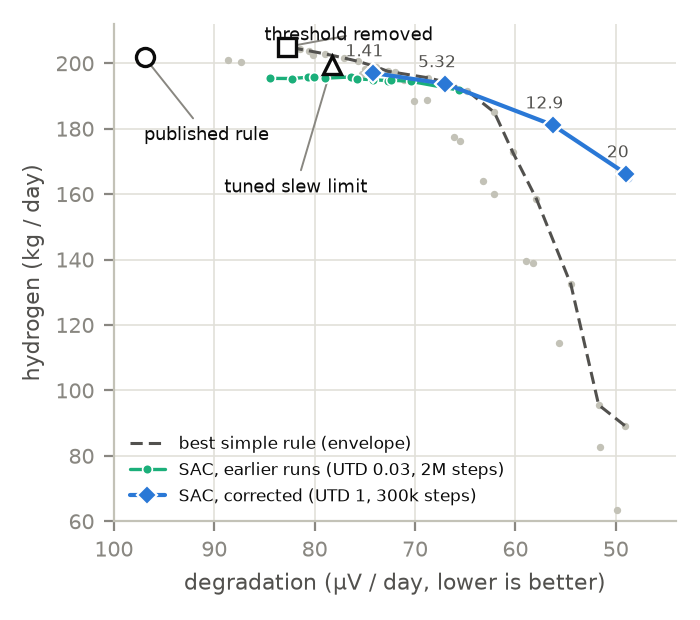
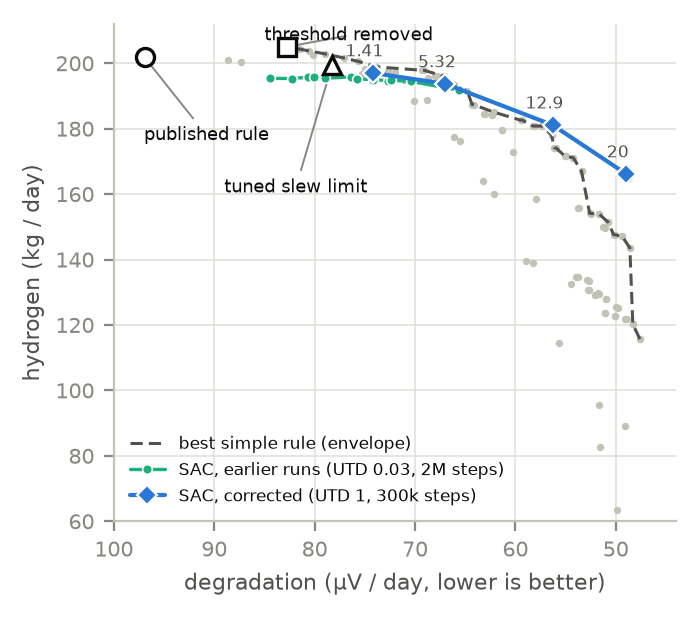
Add the hysteresis-rule grid to the rule envelope and correct the low-degradation claim (advantage falls to 2.7% and 14%)

diff --git a/paper/main_track2.tex b/paper/main_track2.tex
@@ -106,9 +106,11 @@ rule on its training reward, within its first checkpoint; at the high weights th
 did not learn the weight's effect at all (\NumChkTwentyLowDeg\,\si{\micro\volt}/day at $w_2=20$ against
 \NumChkTwentyHighDeg{} at the full ratio, on training days). Configurations should therefore be compared by time to a
 stated quality at the weight of interest, not by steps per second. On held-out days the learned controller matches the best
-simple rule at moderate degradation reductions and, at low degradation, yields \NumAdvTwelvePct--\NumAdvTwentyPct\,\%
-more hydrogen than the best simple rule at the same degradation, with a projected life that depends on coefficients
-the model cannot pin down. No physical stack was operated: the simulator is a pre-screening tool, and
+simple rule at moderate degradation reductions. At low degradation the rule baseline matters: against slew-limit and
+power-cap rules the learned policy yields up to \NumAdvTwentyPctOldRules\,\% more hydrogen at the same degradation, but a
+grid of 72 hysteresis rules (start/stop confirmation, power cap, slew limit) closes most of that gap, leaving
+\NumAdvTwelvePct\,\% at $w_2=12.9$ and \NumAdvTwentyPct\,\% at $w_2=20$, with a projected life that depends on
+coefficients the model cannot pin down. No physical stack was operated: the simulator is a pre-screening tool, and
 conclusions concern relative controller behaviour and computational performance, not absolute stack lifetime.
 \end{abstract}
 
@@ -466,24 +468,34 @@ This is a descriptive probe of a few checkpoints, not a statistic.
 \centering
 \includegraphics[width=\columnwidth]{fig_frontier.pdf}
 \caption{Hydrogen against degradation on the 72 held-out days (lower degradation to the right).
-Grey dots: every point of the slew-limit and power-cap grids; dashed line: their non-dominated envelope.
+Grey dots: every point of the slew-limit, power-cap and hysteresis-rule grids; dashed line: their non-dominated envelope.
 Blue: corrected SAC (mean of two seeds, faint dots are seeds), labelled with the degradation weight
 $w_2$. Green: the earlier SAC runs. Open markers: the three named rules.}
 \label{fig:frontier}
 \end{figure}
 Figure~\ref{fig:frontier} places the corrected policies against the rule grids. The envelope is the
-non-dominated set of all grid points and the three named rules. At the two lowest weights the learned
+non-dominated set of all grid points and the three named rules. The grids are the one-dimensional slew-limit and
+power-cap families and a 72-point hysteresis family: a start is confirmed only after the resource has stayed above
+a threshold for 5 or 20 minutes, a stop only after it has stayed below one for 5 or 20 minutes, and the command is
+capped at 0.5, 0.7 or 1.0 of rated power and slew-limited. The grid was fixed in advance and every point is shown;
+the envelope is the best of them evaluated on the same held-out days, which favours the rules.
+At the two lowest weights the learned
 policy is on or slightly below that envelope: at $w_2=1.41$ it makes \NumSacOneHydrogenKg\,kg/day at
 \NumSacOneDegradation\,\si{\micro\volt}/day against \NumRuleOneHydrogenKg\,kg/day for the envelope at the
 same degradation (\NumAdvOnePct\,\%), and at $w_2=5.32$ \NumSacFiveHydrogenKg{} against
 \NumRuleFiveHydrogenKg\,kg/day (\NumAdvFivePct\,\%); it does not improve on a slew limit there. At lower
-degradation the rules collapse and the policy does not. At $w_2=12.9$ it reaches
+degradation the simple one-dimensional rules collapse and the policy does not, but the hysteresis rules do not
+collapse either, and they supply most of the envelope there. At $w_2=12.9$ the policy reaches
 \NumSacTwelveDegradation\,\si{\micro\volt}/day with \NumSacTwelveHydrogenKg\,kg/day, \NumAdvTwelvePct\,\%
-(\NumAdvTwelveKg\,kg/day) more than the envelope at that degradation; at $w_2=20$ it reaches
-\NumSacTwentyDegradation\,\si{\micro\volt}/day with \NumSacTwentyHydrogenKg\,kg/day, below the
-lowest-degradation rule point we evaluated (\NumRuleTwentyHydrogenKg\,kg/day there). The earlier runs stopped
+(\NumAdvTwelveKg\,kg/day) more than the envelope at that degradation, against \NumAdvTwelvePctOldRules\,\% before the
+hysteresis rules were added. At $w_2=20$ it reaches
+\NumSacTwentyDegradation\,\si{\micro\volt}/day with \NumSacTwentyHydrogenKg\,kg/day, \NumAdvTwentyPct\,\%
+(\NumAdvTwentyKg\,kg/day) more than the envelope (\NumRuleTwentyHydrogenKg\,kg/day there), against
+\NumAdvTwentyPctOldRules\,\% before. The envelope is sparse in this range (a few kilograms per day between
+neighbouring points), and each setting has two seeds, so we do not read a gap of a few percent as a result;
+the gap at $w_2=20$ is larger but a finer rule grid was not tried. The earlier runs stopped
 at \NumLegacyMinDv\,\si{\micro\volt}/day. The yield given up relative to the threshold-free rule is large at
-the top of the weight range, so this is a better trade-off at low degradation and not a free improvement.
+the top of the weight range, so this is a trade-off at low degradation and not a free improvement.
 
 \subsection{Sensitivity to resource variability and degradation coefficients}
 \begin{figure*}[t]
@@ -587,9 +599,10 @@ benchmark characterise one machine, not a population. \emph{Learning experiments
 has two seeds, which shows seed agreement but does not support significance claims; the pilots and the
 update-ratio study are in-sample on training days; the discount factor was chosen from them. The
 policies are trained at one set of coefficients on one resource and are only evaluated, not retrained,
-under shift. Only SAC was re-run at the corrected settings; we make no claim about PPO. The rule grids
-are one-dimensional families (slew limit, power cap); a richer rule or a model-predictive controller could
-close part of the gap at low degradation, and we did not test one. The degradation weights $w_2$ have no
+under shift. Only SAC was re-run at the corrected settings; we make no claim about PPO. The rule families
+are two one-dimensional grids (slew limit, power cap) and one 72-point hysteresis grid; the last closed most
+of the low-degradation gap, so a finer or richer rule, or a model-predictive controller, could close more, and we
+tried neither. The robustness comparison below is against slew limits only, not against the hysteresis rules. The degradation weights $w_2$ have no
 economic calibration here, so which point on the frontier is preferable is not decided by this study.
 \emph{Single site and year.}
 
@@ -602,8 +615,10 @@ the decomposition. Learner throughput, not environment throughput, bounds SAC tr
 one-to-one update ratio was in fact \NumUtdMeasuredLow{}. The ratio matters where the policy has something to
 learn: at a low degradation weight every ratio reaches the same plateau, but at high weights only the full ratio
 learns the weight's effect, so configurations should be compared by time to a stated quality at the weight of interest. On held-out days the
-learned controller does not improve on simple slew limits at moderate degradation, but at low degradation
-it delivers substantially more hydrogen than any simple rule we evaluated, with a projected life that
+learned controller does not improve on simple slew limits at moderate degradation. At low degradation it beats
+slew-limit and power-cap rules by a wide margin, but a hysteresis rule with start/stop confirmation closes
+most of that gap (\NumAdvTwelvePct\,\% and \NumAdvTwentyPct\,\% remain at the two highest weights), so the
+benefit of learning there is modest and the simple-rule baseline has to be chosen with care. The projected life
 depends on degradation coefficients the model cannot identify. These are simulation results on a model
 calibrated to literature rates and a synthetic sub-hourly resource; hardware validation, measured
 high-frequency resource data, an economic calibration of the degradation weight and a model-predictive

diff --git a/scripts/analyze_e5.py b/scripts/analyze_e5.py
@@ -95,6 +95,7 @@ def main():
         pd.DataFrame({"name": [f"{r.family} {r.param:g}" for r in fam.itertuples()], "h2": fam.h2_kg_day, "dv": fam.dv_uv_day}),
         pd.DataFrame({"name": [f"named {c}" for c in b.index], "h2": b.h2_kg_day.values, "dv": b.dv_uv_day.values})],
         ignore_index=True)
+    env0 = envelope(rules)                                     # slew-limit / power-cap rules only (earlier envelope)
     rf2 = ROOT / "results_hpc" / "rule_family_v2.csv"          # hysteresis + cap + slew rules (Kaggle run), optional
     if rf2.exists():
         v2 = pd.read_csv(rf2)
@@ -134,7 +135,11 @@ def main():
     ax.legend(frameon=False, loc="lower left", fontsize=6.3, handlelength=2.0)
     fig.tight_layout()
     out = Path(a.fig_dir) / "fig_frontier.pdf"
-    H._save(fig, out)
+    try:
+        H._save(fig, out)
+    except ImportError as e:        # e.g. a locked-down machine that blocks matplotlib's PDF backend
+        print(f"WARNING: figure NOT regenerated ({e}); the CSVs below are still written. "
+              "Rerun this script on a machine where matplotlib's PDF backend loads.")
 
     # ---- advantage over the best simple rule at the same degradation
     vs = []
@@ -142,8 +147,10 @@ def main():
         for r in nm.itertuples():
             below = r.dv < env.dv.min()
             rule_h2 = float(np.interp(r.dv, env.dv.to_numpy(), env.h2.to_numpy())) if not below else float(env.h2.iloc[0])
+            old_h2 = float(np.interp(r.dv, env0.dv.to_numpy(), env0.h2.to_numpy())) if r.dv >= env0.dv.min() else float(env0.h2.iloc[0])
             vs.append(dict(w2=r.w2, sac_h2=r.h2, sac_dv=r.dv, rule_h2_at_same_dv=rule_h2,
                            advantage_kg=r.h2 - rule_h2, advantage_pct=100 * (r.h2 - rule_h2) / rule_h2,
+                           advantage_pct_slewcap_only=100 * (r.h2 - old_h2) / old_h2,
                            below_envelope_range=bool(below), n_seeds=int((new.w2 == r.w2).sum())))
         v = pd.DataFrame(vs)
         v.to_csv(a.vs_csv, index=False)

diff --git a/paper/numbers_track2.tex b/paper/numbers_track2.tex
@@ -57,21 +57,25 @@
 \newcommand{\NumRuleOneHydrogenKg}{199}
 \newcommand{\NumAdvOneKg}{$-$2.2}
 \newcommand{\NumAdvOnePct}{$-$1.1}
+\newcommand{\NumAdvOnePctOldRules}{-1.1}
 \newcommand{\NumSacFiveHydrogenKg}{194}
 \newcommand{\NumSacFiveDegradation}{67.0}
-\newcommand{\NumRuleFiveHydrogenKg}{194}
-\newcommand{\NumAdvFiveKg}{$-$0.52}
-\newcommand{\NumAdvFivePct}{$-$0.27}
+\newcommand{\NumRuleFiveHydrogenKg}{195}
+\newcommand{\NumAdvFiveKg}{$-$1.2}
+\newcommand{\NumAdvFivePct}{$-$0.64}
+\newcommand{\NumAdvFivePctOldRules}{-0.27}
 \newcommand{\NumSacTwelveHydrogenKg}{181}
 \newcommand{\NumSacTwelveDegradation}{56.3}
-\newcommand{\NumRuleTwelveHydrogenKg}{146}
-\newcommand{\NumAdvTwelveKg}{35}
-\newcommand{\NumAdvTwelvePct}{24}
+\newcommand{\NumRuleTwelveHydrogenKg}{176}
+\newcommand{\NumAdvTwelveKg}{4.8}
+\newcommand{\NumAdvTwelvePct}{2.7}
+\newcommand{\NumAdvTwelvePctOldRules}{24}
 \newcommand{\NumSacTwentyHydrogenKg}{166}
 \newcommand{\NumSacTwentyDegradation}{49.0}
-\newcommand{\NumRuleTwentyHydrogenKg}{89.2}
-\newcommand{\NumAdvTwentyKg}{77}
-\newcommand{\NumAdvTwentyPct}{86}
+\newcommand{\NumRuleTwentyHydrogenKg}{145}
+\newcommand{\NumAdvTwentyKg}{21}
+\newcommand{\NumAdvTwentyPct}{14}
+\newcommand{\NumAdvTwentyPctOldRules}{86}
 \newcommand{\NumTunedTwelveCoefOut}{13}
 \newcommand{\NumTunedTwelveCoefRows}{13}
 \newcommand{\NumTunedTwelveCoefMinRatio}{1.1}

diff --git a/scripts/make_paper_numbers.py b/scripts/make_paper_numbers.py
@@ -162,6 +162,8 @@ def main():
                 M[f"NumRule{tag}HydrogenKg"] = sig(r_.rule_h2_at_same_dv, 3)
                 M[f"NumAdv{tag}Kg"] = neg(r_.advantage_kg, 2) if r_.advantage_kg < 0 else sig(r_.advantage_kg, 2)
                 M[f"NumAdv{tag}Pct"] = neg(r_.advantage_pct, 2) if r_.advantage_pct < 0 else sig(r_.advantage_pct, 2)
+                if "advantage_pct_slewcap_only" in r_.index:       # advantage against slew-limit/power-cap rules only
+                    M[f"NumAdv{tag}PctOldRules"] = sig(r_.advantage_pct_slewcap_only, 2)
 
     # ---- robustness: tuned slew limit and matched slew limits
     sm = d / "sac_sensitivity_summary.csv"

diff --git a/audit/02_track2_plan.md b/audit/02_track2_plan.md
@@ -39,7 +39,7 @@ computational performance, not absolute stack lifetime.
 | Documented 1:1 update ratio was actually 0.032 in vectorized SB3 SAC | **measured** (SB3 2.9.0, repo config) | audit C1 |
 | Throughput in steps/s is not comparable across update ratios; compare time-to-quality at a stated ratio | **measured**: at w2 = 0.1 same plateau at every ratio (20x wall-clock spread); at w2 = 12.9 / 20 the cheap ratio fails to reach the frontier policies | `e3_quality.csv`, `fig_e3_utd` |
 | Controller lifetime ranking depends on the degradation coefficients (flips in 6 of 13 variants) but not on resource variability (5 scenarios); coefficient uncertainty moves life by ≈16× vs tens of % between controllers | **measured** for the 3 rule-based controllers on the 72 test days; learned policies not yet included | `degradation_sensitivity.csv`, `controller_comparison.csv`, `fig_sensitivity` |
-| Learned controller extends the yield–degradation frontier | **supported at low degradation only**: more hydrogen than the best simple rule at equal degradation for w2 ≥ 12.9; no better than a slew limit at moderate degradation; lifetime is roughly a tie that depends on coefficients | `e5_vs_rules.csv`, `sac_matched_summary.csv`, `fig_frontier`, `fig_sensitivity_sac` |
+| Learned controller extends the yield–degradation frontier | **weakened (2026-11-11)**: against slew-limit/power-cap rules SAC makes +24% (w2 = 12.9) and +86% (w2 = 20) more hydrogen at equal degradation, but against the best of those plus a 72-point hysteresis-rule grid only +2.7% and +14%; no better than a slew limit at moderate degradation; lifetime is roughly a tie that depends on coefficients. The rule grid is coarse and was evaluated on the test days (favours the rules); a finer grid was not tried | `e5_vs_rules.csv`, `sac_matched_summary.csv`, `fig_frontier`, `fig_sensitivity_sac` |
 | Any absolute stack lifetime (e.g. 7.39 yr) as a result | **forbidden** as a headline | audit C3 |
 | HPC scalability beyond one workstation; hardware validation | **forbidden** | none measured |
 
@@ -54,7 +54,7 @@ computational performance, not absolute stack lifetime.
 | E2 | Learner throughput: GPU vs CPU vs batch; k concurrent runs | **done** |
 | E3 | Update-ratio study: UTD ∈ {1/32, 1/8, 1/2, 1}, 2 seeds, 300k env steps, checkpoints → quality vs steps / updates / wall-clock | **done at w2 = 0.1**: all ratios reach the same plateau (3.0-3.3% below the constant-action rule) at the first checkpoint. **Not true at w2 = 12.9 / 20**: the cheap ratio does not learn the weight's effect (check on train days); a follow-up at w2 = 20 across ratios was stopped before it finished (the intermediate ratio that suffices is unknown) |
 | E4 | SAC pilots: gamma, replicate seed, reward rescale (w2 = 0.1, UTD = 1, 300k steps) | round 1 done (gamma 0.999/0.99/0.95); **round 2 running** (gamma 0.9, 0.8, 0.95 seed 1, 0.95 with reward ÷10) |
-| E5 | Reduced learned-controller sweep over w2 with seeds | **done** (w2 ∈ {1.41, 5.32, 12.9, 20}, 2 seeds, test split used once): on the rule envelope at w2 ≤ 5.32; +24% (w2 = 12.9) and +86% (w2 = 20) hydrogen over the best simple rule at the same degradation |
+| E5 | Reduced learned-controller sweep over w2 with seeds | **done** (w2 ∈ {1.41, 5.32, 12.9, 20}, 2 seeds, test split used once): on the rule envelope at w2 ≤ 5.32; +24% (w2 = 12.9) and +86% (w2 = 20) over slew/cap rules, but only +2.7% and +14% over the envelope that includes the hysteresis-rule grid (Kaggle run 1, `results_kaggle/rule_family_v2.csv`) |
 | E6 | Parallel scenario + coefficient sensitivity, controllers × 5 scenarios × 3 realisations × 13 coefficient variants | **done** for the rules and the 8 SAC policies (308 units, 31.9M steps, 1353 s on 14 workers) plus matched slew limits (rules alone run 2.8x faster per step than with policies in the loop) |
 | E7 | PPO | not started; **no PPO claim will be made** unless re-run with entropy and reward normalisation |
 

diff --git a/audit/01_research_audit.md b/audit/01_research_audit.md
@@ -578,3 +578,16 @@ roughly 90–115 env-steps/s. So the previously planned 130-run, 2M-step SAC mat
 the order of 400 GPU-hours on this machine and is not feasible as designed; the budget has to be
 chosen in updates (not env steps) and the number of runs cut. The older "6,520 steps/s" figures
 were measured at 1/32 of the intended update work and must not be used for planning.
+
+---
+
+## Addendum (2026-11-11): the hysteresis-rule grid closes most of the low-degradation gap
+
+A 72-point hysteresis rule grid (start/stop confirmation of 5 or 20 minutes, power cap 0.5/0.7/1.0, slew limit
+0.001/0.003/0.01) was run on the 72 held-out days on Kaggle (`results_kaggle/rule_family_v2.csv`). It supplies 39 of the 49
+points of the new non-dominated envelope. Against that envelope, the corrected SAC advantage at equal degradation falls from
++24% to +2.7% (w2 = 12.9) and from +86% to +14% (w2 = 20); at w2 ≤ 5.32 it is unchanged (about −1%). The envelope is sparse
+in that range and the grid was not refined, each SAC setting has two seeds, and the rules are the best of 72 points evaluated
+on the same days, so the remaining gap is not a significant result. The earlier "substantially more hydrogen than any simple
+rule" statement was withdrawn from the paper. The matched-slew-limit robustness comparison (above) is against slew limits only
+and is not repeated against the hysteresis rules.
